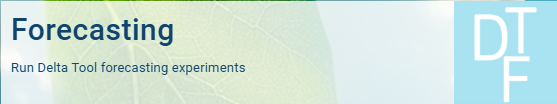
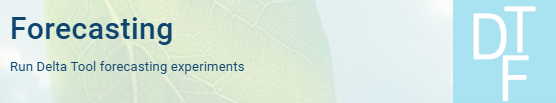
Edit text

diff --git a/4_datasets.rst b/4_datasets.rst
@@ -7,12 +7,23 @@ Dataset summary, stations filtering and selection
 
 This section explains how to interact with the dataset display page to analyse the dataset content and to filter and select the input stations for an experiment. The functions available are exactly the same both for assessment and forecasting experiments.
 
+Stations are displayed on a table and on a map and the two views are always linked.
+
 Summary panel
 -------------
 
 .. figure:: graphics/summary_panel.png
+   :width: 500px
 
    Summary panel showing stations type and area info
+
+The top-right section of the "Dataset Summary page" displays info on the loaded dataset content, in terms of storage occupation, also reporting the total, filtered and selected number of stations.
+
+.. note::
+
+   The "Dataset Summary page" allows the user to browse the dataset and to decide on which stations to run his experiments. Users can do this by means of two distinct subsetting mechanism: stations can be **filtered** using their alphanumeric attributes (the columns displayed on the stations table) and/or can be **(yellow) selected** by clicking on the rows of the stations table or on the station points on the map, operations that are better described in the :ref:`Stations table` and in the :ref:`Stations map` sections. In the window that collects parameters for running an experiment, the current number of filtered and (yellow) selected stations is clearly displayed, and the user can decide which subset to use as input for the experiment (see :ref:`Run an experiment` page for reference).
+
+The summary panel also shows the date and time the dataset was loaded and last modified (for instance when an experiment is executed or removed). The two charts below are linked to the stations table and the stations map, and graphically visualise the share of stations by Type (background, industrial, traffic) and by Area (urban, suburban, rural).
 
 
 Stations toolbar